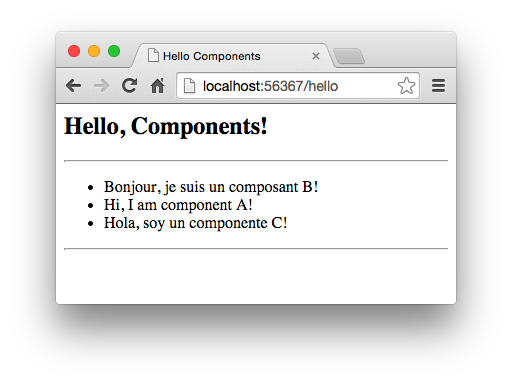
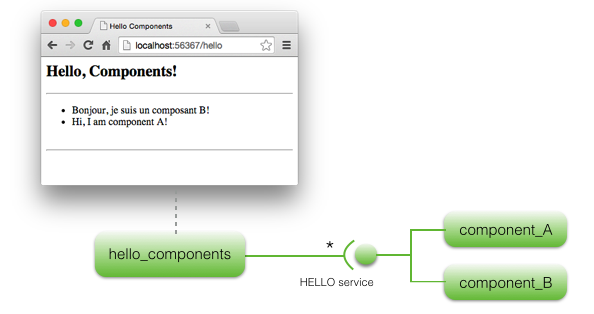
Finish documenting the first step of getting start

diff --git a/docs/1.x/tutorials/getting-started/index.md b/docs/1.x/tutorials/getting-started/index.md
@@ -15,10 +15,11 @@ next_page: ../spellchecker
  * As a COHORTE user, you need to have Java ( >1.6 ) and Python ( 3 ) installed on your system.
  * Next, you need to download and install COHORTE on your system ([detailed information are given in this page]({{ site.baseurl }}/docs/1.x/setup)).
  * The objective of this getting started tutorial is to get you familiar with the COHORTE concept as quickly as possible. There is no need to start coding at this step. You found other advanced tutorial in the [tutorials section of the documentation page]({{ site.baseurl }}/docs/1.x/tutorials).
- * This getting started tutorial is divised on three steps:
-   * STEP 1: creating a simple application on one node, but two seperate isolates. 
-   * STEP 2: the same application of the first step will be deployed on two distributed nodes without changing the components implementation code.
-   * STEP 3: crash-test
+ * This getting started tutorial is divised in four steps:
+   * **STEP 1**: creating a simple application on one node, but two seperate isolates. 
+   * **STEP 2**: using two distributed nodes to host the same application (without changing the components implementation code).
+   * **STEP 3**: using a mixture of Java and Python components.
+   * **STEP 4**: crash-test
 
 ### STEP 1
 
@@ -28,54 +29,89 @@ next_page: ../spellchecker
 $ <b>cohorte-create-node</b> my-pc
 </pre>
 
-This will create a new directory named `my-pc` containing an executable `run` (which launches the created COHORTE node) and two folders `conf` (contains configuration files) and `repo` (contains components bundles).
+This command will create a new directory named `my-pc` containing an executable `run` (which launches the created COHORTE node) and two folders `conf` (contains configuration files) and `repo` (contains components bundles).
 
- * Download the bundle of this tutorial's components (no need to implement them in this getting started tutorial). Put the extracted `hello` directory into `my-pc/repo` directory.  
+ * Download the bundle of this tutorial's components (no need to implement them in this getting started tutorial). 
 
 <p>
 <div id="download_night_builds"></div> 
 </p>
 
- * The `hello` package contains four components:   
-   * **component_A**, **component_B**, and **component_C**: these components implements the HELLO service which has only one method `say_hello`. 
-   * **hello_components**: this component provides a web interface on which the list of discovered components implementing the HELLO_SERVICE are listed (we show the message returned by each component when calling the `say_hello` method).
+ * Put the extracted `hello` directory into `my-pc/repo` directory.  
+   * The `hello` package contains four components:   
+     * **component_A**, **component_B**, and **component_C**: these components implements the HELLO service which has only one method `say_hello`. 
+     * **hello_components**: this component provides a web interface on which the list of discovered components implementing the HELLO service are listed (we show the message returned by each component when calling the `say_hello` method).
+
+The following picture depicts the web interface provided by the **hello_components** component and the underlying architecture of the application.
 
 ![Step 1 final result](getting-started-img-3.png)
 
- * architecture
+ * In this first step of the tutorial, we want to instantiate only the components **HC** (hello_components), **A** (component_A) and **B** (component_B). In addition, we want to seperate between HC component and the other components providing the HELLO service (which can contain third-party code). COHORTE supports this separation by using **Isolates**. Isolates are a seperate process with all the needed runtime infrastructure allowing the execution of the managed components.
+ <br/> The following picture depicts the desired resilient architecture. 
 
 ![Step 1](getting-started-img-1.png)
 
-`step1/autorun_conf.js`
+ * In order to have this deployment plan, you should edit the `my-pc/conf/autorun_conf.js` to specify the set of components that will be instantiated on this node and on which isolate.
+
 {% highlight json %}
 {
-	"name" : "hello-demo-app-step2",
+	"name" : "default-application",
 	"root" : {
-		"name" : "hello-demo",
-		"components" : [ {
-			"name" : "hello_components",
-			"factory" : "hello_components_factory",
-			"language" : "python",
-			"isolate" : "web"
-		}, {
-			"name" : "component_A",
-			"factory" : "component_A_factory",
-			"language" : "python",
-			"isolate" : "components"
-		}, {
-			"name" : "component_B",
-			"factory" : "component_B_factory",
-			"language" : "python",
-			"isolate" : "components"
-		}, {
-			"name" : "component_C",
-			"factory" : "component_C_factory",
-			"language" : "python",
-			"isolate" : "components"
-		}  ]
+		"name" : "default-application-composition",
+		"components" : [ 
+			{
+				"name" : "hello_components",
+				"factory" : "hello_components_factory",
+				"isolate" : "web"
+			}, {
+				"name" : "component_A",
+				"factory" : "component_A_factory",
+				"isolate" : "components"
+			}, {
+				"name" : "component_B",
+				"factory" : "component_B_factory",
+				"isolate" : "components"
+			}
+		]
 	}
 }
 {% endhighlight %}
+
+ * **It's done!** all what's you need to do now is to start `my-pc` node as follow:
+
+ <pre>
+$ ./<b>run</b> -t
+</pre>
+
+You will notice some log outputs, when all is Ok, type the `load command to start the application's composition:
+
+ <pre>
+$ <b>load</b>
+Started composition: default-application -> b764f5eb-812c-4a2a-83f8-b3effa1e86
+</pre>
+
+ * To test your application (launch the web interface), you need to now on which http port the `web` isolate is listening (as the HC component publish the web page on using the same HTTP server of its isolate container). Type the `http` command to have this information.
+
+<pre style="font-size:55%">
+$ <b>http</b>
++------------+--------------------------------------+-----------+--------------------------------------+-------+
+|    Name    |                 UID                  | Node Name |               Node UID               | HTTP  |
++============+======================================+===========+======================================+=======+
+| components | 9fa3c812-64b0-499e-8b65-6ac5fe8bcf02 | my-pc     | 71c96fe6-5ce2-43c9-bafc-6f0905d8cf74 | 63625 |
++------------+--------------------------------------+-----------+--------------------------------------+-------+
+| web        | ac0dd576-a7fb-4c34-b7ab-b68a810c38bc | my-pc     | 71c96fe6-5ce2-43c9-bafc-6f0905d8cf74 | 63609 |
++------------+--------------------------------------+-----------+--------------------------------------+-------+
+</pre>
+
+In this case, its `63609`. Launch a web browser with this address to start the web interface: `http://localhost:63609/hello`.
+
+<div class="note">
+<span class="note-title">Note</span>
+<p class="note-content">
+You can fixe the http port to use for your application using configuration files (see <a href="{{ site.baseurl }}/docs/1.x/startup">startup section of the documentation page</a>).
+</p>
+</div>
+
 
 ### Step 2
 
